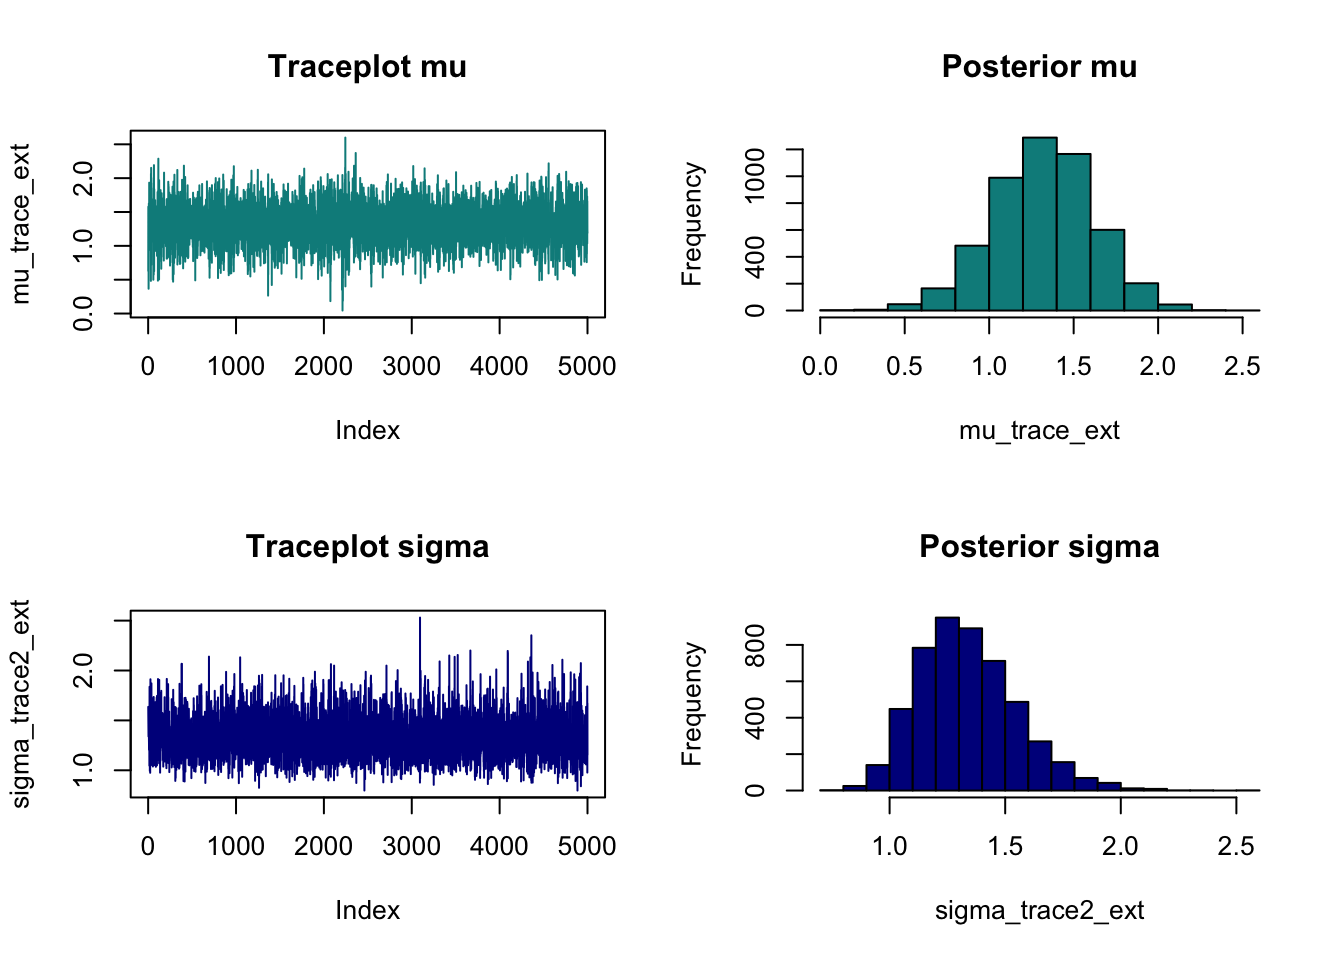
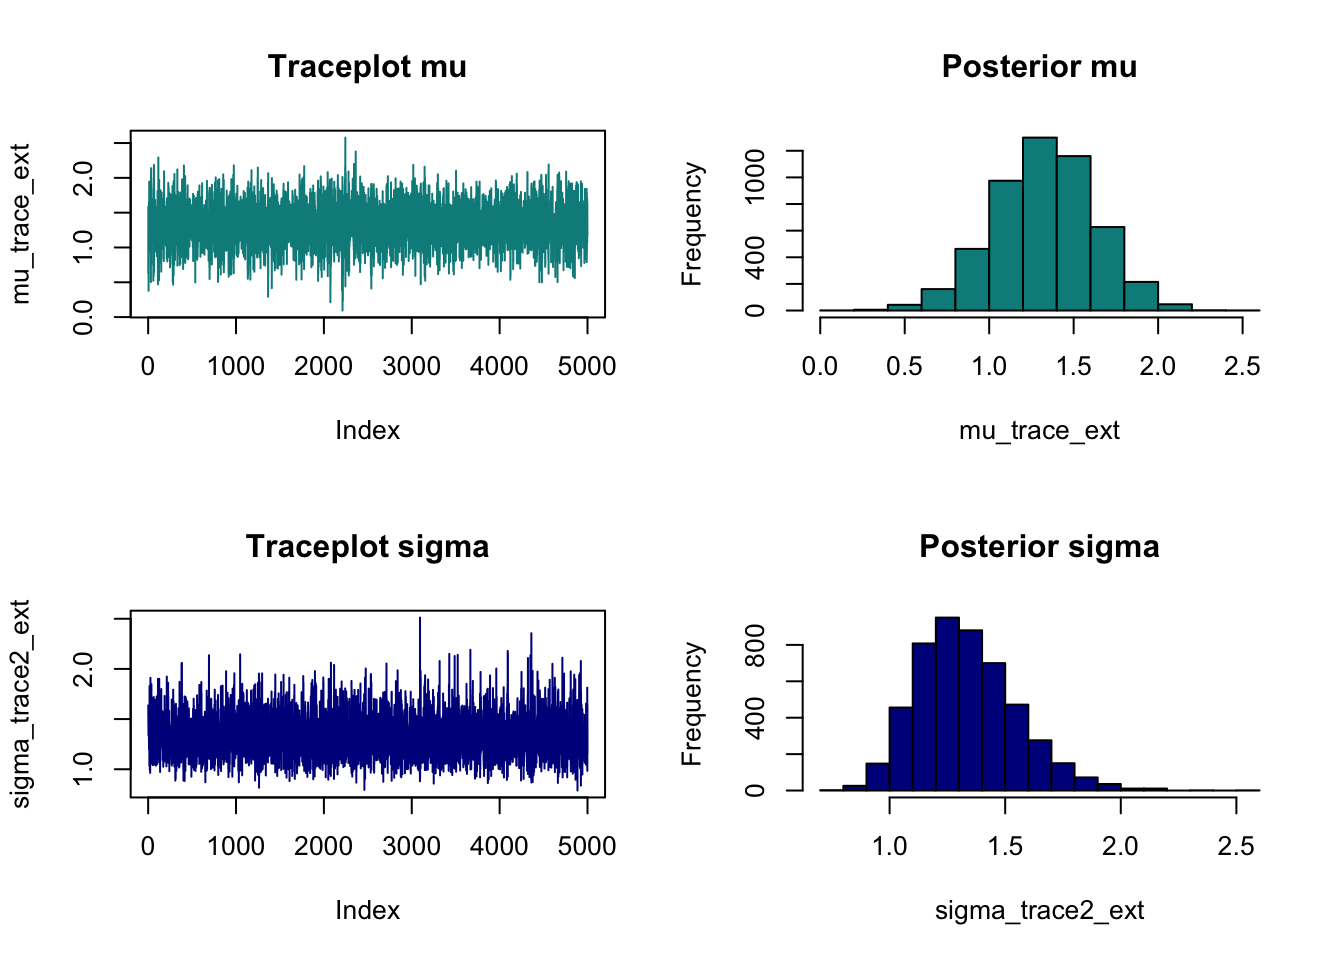
add file

diff --git a/docs/Part3.html b/docs/Part3.html
@@ -174,6 +174,10 @@ window.Quarto = {
     <a class="nav-link active" href="./Part3.html" aria-current="page"> 
 <span class="menu-text">Modèle Extension</span></a>
   </li>  
+  <li class="nav-item">
+    <a class="nav-link" href="./Part4.qmd"> 
+<span class="menu-text">Conclusion</span></a>
+  </li>  
 </ul>
             <ul class="navbar-nav navbar-nav-scroll ms-auto">
   <li class="nav-item compact">
@@ -206,7 +210,7 @@ window.Quarto = {
     <h2 id="toc-title">Sur cette page</h2>
    
   <ul>
-  <li><a href="#partie-modele-extension" id="toc-partie-modele-extension" class="nav-link active" data-scroll-target="#partie-modele-extension"><span class="header-section-number">1</span> Partie Modele Extension</a></li>
+  <li><a href="#modele-extension" id="toc-modele-extension" class="nav-link active" data-scroll-target="#modele-extension"><span class="header-section-number">1</span> Modele Extension</a></li>
   <li><a href="#récuperer-les-données-pour-la-covariable-environnementale-xij" id="toc-récuperer-les-données-pour-la-covariable-environnementale-xij" class="nav-link" data-scroll-target="#récuperer-les-données-pour-la-covariable-environnementale-xij"><span class="header-section-number">2</span> Récuperer les données pour la covariable environnementale Xij</a></li>
   <li><a href="#la-fonction-de-log-posteriori" id="toc-la-fonction-de-log-posteriori" class="nav-link" data-scroll-target="#la-fonction-de-log-posteriori"><span class="header-section-number">3</span> La fonction de log-posteriori</a></li>
   <li><a href="#les-fonctions-de-gradients" id="toc-les-fonctions-de-gradients" class="nav-link" data-scroll-target="#les-fonctions-de-gradients"><span class="header-section-number">4</span> Les fonctions de gradients</a></li>
@@ -246,8 +250,8 @@ window.Quarto = {
 </header>
 
 
-<section id="partie-modele-extension" class="level1" data-number="1">
-<h1 data-number="1"><span class="header-section-number">1</span> Partie Modele Extension</h1>
+<section id="modele-extension" class="level1" data-number="1">
+<h1 data-number="1"><span class="header-section-number">1</span> Modele Extension</h1>
 <p>On pourra considérer l’extension suivante pour expliquer une partie de la variabilité entre années :</p>
 <p><span class="math display">\[
 \begin{aligned}
@@ -730,7 +734,7 @@ Configuration : n_iter = 5000, eps = 0.0100, L = 100
   Chaîne 1 | Progression : 4500 / 5000 (90%) | Taux d'acc. : 98.9%
   Chaîne 1 | Progression : 5000 / 5000 (100%) | Taux d'acc. : 99.0%
 =&gt; Chaîne 1 terminée avec succès. Taux d'acceptation final : 98.96%
-=&gt; Chaîne 1 terminée en 1.77 minutes.</code></pre>
+=&gt; Chaîne 1 terminée en 1.79 minutes.</code></pre>
 </div>
 </div>
 </section>
@@ -784,7 +788,7 @@ Configuration : n_iter = 5000, eps = 0.0100, L = 100
 <div class="sourceCode cell-code" id="cb20"><pre class="sourceCode r code-with-copy"><code class="sourceCode r"><span id="cb20-1"><a href="#cb20-1" aria-hidden="true" tabindex="-1"></a><span class="fu">print</span>(res_beta)</span></code><button title="Copy to Clipboard" class="code-copy-button"><i class="bi"></i></button></pre></div>
 <div class="cell-output cell-output-stdout">
 <pre><code>                  Paramètre Estimate Std.Error Lower_CI_95 Upper_CI_95 Median
-2.5% Beta (Température Xij)   1.3017     0.118      1.0729      1.5337 1.3022</code></pre>
+2.5% Beta (Température Xij)   1.2993    0.1179      1.0711      1.5311 1.3001</code></pre>
 </div>
 </div>
 <div class="cell">
@@ -824,7 +828,7 @@ Configuration : n_iter = 5000, eps = 0.0100, L = 100
 </div>
 <div class="sourceCode cell-code" id="cb25"><pre class="sourceCode r code-with-copy"><code class="sourceCode r"><span id="cb25-1"><a href="#cb25-1" aria-hidden="true" tabindex="-1"></a><span class="fu">cat</span>(<span class="fu">sprintf</span>(<span class="st">"Moyen de σ^2  après inclusion de la température (Xij) : %.3f</span><span class="sc">\n</span><span class="st">"</span>, sigma_new))</span></code><button title="Copy to Clipboard" class="code-copy-button"><i class="bi"></i></button></pre></div>
 <div class="cell-output cell-output-stdout">
-<pre><code>Moyen de σ^2  après inclusion de la température (Xij) : 1.337</code></pre>
+<pre><code>Moyen de σ^2  après inclusion de la température (Xij) : 1.334</code></pre>
 </div>
 </div>
 <div class="cell">
@@ -841,7 +845,7 @@ Configuration : n_iter = 5000, eps = 0.0100, L = 100
 </div>
 <div class="sourceCode cell-code" id="cb29"><pre class="sourceCode r code-with-copy"><code class="sourceCode r"><span id="cb29-1"><a href="#cb29-1" aria-hidden="true" tabindex="-1"></a><span class="fu">cat</span>(<span class="fu">sprintf</span>(<span class="st">"Moyenne de μ après inclusion de la température (Xij) : %.3f</span><span class="sc">\n</span><span class="st">"</span>, mu_new))</span></code><button title="Copy to Clipboard" class="code-copy-button"><i class="bi"></i></button></pre></div>
 <div class="cell-output cell-output-stdout">
-<pre><code>Moyenne de μ après inclusion de la température (Xij) : 1.322</code></pre>
+<pre><code>Moyenne de μ après inclusion de la température (Xij) : 1.328</code></pre>
 </div>
 </div>
 <div class="cell">
@@ -863,26 +867,26 @@ Configuration : n_iter = 5000, eps = 0.0100, L = 100
 <span id="cb31-16"><a href="#cb31-16" aria-hidden="true" tabindex="-1"></a><span class="fu">head</span>(<span class="fu">round</span>(samples_matrix2,<span class="dv">5</span>))</span></code><button title="Copy to Clipboard" class="code-copy-button"><i class="bi"></i></button></pre></div>
 <div class="cell-output cell-output-stdout">
 <pre><code>            λ1      λ2      λ3      λ4       λ5      λ6      λ7      λ8
-[1,] 107.15464 3.02431 3.60096 4.55080 10.04277 1.90509 5.34673 0.03739
-[2,]  17.54264 5.03236 1.63742 6.29525 31.08075 2.70174 1.42118 0.71351
-[3,]  52.64754 3.82422 3.46916 4.19496  2.39720 0.26835 2.40381 0.14046
-[4,]  14.07228 5.12094 1.67007 2.53921  9.81177 0.48963 1.82414 0.89153
-[5,]  42.48738 3.78311 3.10263 3.59142  5.56038 1.70762 1.36740 0.23794
-[6,]  28.93554 4.89721 5.57640 6.90141  8.22608 1.48923 1.27125 0.47530
+[1,] 106.76586 3.02866 3.60707 4.55889 10.05442 1.90961 5.35718 0.03762
+[2,]  17.50057 5.03574 1.63860 6.28578 30.91396 2.70296 1.42166 0.71513
+[3,]  52.48114 3.82815 3.47344 4.18910  2.40547 0.26867 2.40701 0.14114
+[4,]  14.01027 5.12624 1.67163 2.53625  9.81210 0.49106 1.82634 0.89644
+[5,]  42.40164 3.78764 3.10926 3.59057  5.53142 1.71592 1.37114 0.23895
+[6,]  28.78595 4.90446 5.57398 6.88432  8.20149 1.49216 1.27487 0.47851
            λ9     λ10      λ11     λ12     λ13     λ14      λ15     λ16     λ17
-[1,] 10.79931 1.39233 70.59017 1.10913 0.55669 3.34390  6.84999 3.88828 3.54655
-[2,]  4.81728 0.51904 22.22231 3.83463 0.62383 4.45086 20.60402 2.77039 3.86996
-[3,]  5.45963 1.78113 40.17469 1.93440 2.85862 4.37654 10.67419 3.23747 3.02189
-[4,]  2.05584 1.16696 20.65915 4.02357 0.82370 6.30366 26.59008 2.35047 3.75413
-[5,]  0.71256 1.00996 42.14568 2.04861 0.42562 4.41476 11.50495 1.98477 3.66915
-[6,]  0.26306 2.85660 24.19200 2.97655 0.12116 6.29994 16.67404 2.44191 3.77974
+[1,] 10.82022 1.39560 70.36063 1.11336 0.55841 3.34990  6.87699 4.35315 3.54906
+[2,]  4.82061 0.51963 22.17857 3.84078 0.62568 4.45333 20.64627 3.07946 3.87116
+[3,]  5.46133 1.78446 40.07151 1.94038 2.86566 4.38145 10.70985 3.57096 3.02348
+[4,]  2.05711 1.16774 20.59914 4.03305 0.82485 6.30953 26.65716 2.79838 3.75626
+[5,]  0.71480 1.01294 42.00720 2.05406 0.42772 4.41995 11.53775 2.39080 3.67016
+[6,]  0.26435 2.85617 24.08746 2.98445 0.12192 6.30670 16.72458 3.08695 3.78299
          λ18     λ19     λ20       λ21     λ22     λ23       μ     σ^2    beta
-[1,] 4.26173 0.25398 6.53054 164.40927 0.48819 0.85620 0.62935 1.63550 1.97577
-[2,] 6.67727 0.34125 0.30285  57.42442 1.78742 0.30941 1.57781 1.52412 0.94591
-[3,] 4.91203 0.81718 1.59363 124.14663 1.85643 0.85834 0.63666 1.44049 1.62293
-[4,] 8.23764 0.33757 0.90523  51.03187 2.96116 0.48689 1.43386 1.33912 0.79953
-[5,] 5.54483 0.89713 1.31522  85.99239 0.63975 0.29784 0.36670 1.50886 1.45027
-[6,] 5.82539 1.01623 1.33737  77.61109 0.44408 0.24421 1.16808 1.45951 1.21429</code></pre>
+[1,] 4.27275 0.25484 6.54547 163.87190 0.48977 0.85880 0.63505 1.63604 1.97271
+[2,] 6.68459 0.34255 0.30366  57.32368 1.79392 0.31029 1.58442 1.52212 0.94410
+[3,] 4.92184 0.82086 1.60012 123.81034 1.86296 0.86135 0.64125 1.44073 1.62031
+[4,] 8.25050 0.33914 0.90923  50.90146 2.97059 0.48858 1.44149 1.33542 0.79737
+[5,] 5.55441 0.90380 1.32352  85.76830 0.64229 0.29982 0.37681 1.50558 1.44797
+[6,] 5.83609 1.02229 1.34616  77.40225 0.44654 0.24580 1.18246 1.45651 1.21187</code></pre>
 </div>
 </div>
 <div class="cell">
@@ -906,32 +910,32 @@ Configuration : n_iter = 5000, eps = 0.0100, L = 100
 <span id="cb33-18"><a href="#cb33-18" aria-hidden="true" tabindex="-1"></a><span class="fu">print</span>(results2)</span></code><button title="Copy to Clipboard" class="code-copy-button"><i class="bi"></i></button></pre></div>
 <div class="cell-output cell-output-stdout">
 <pre><code>     Parameter   Estimate   CI_lower    CI_upper
-λ1          λ1 27.3341651 14.4766172  45.1840051
-λ2          λ2  4.2758916  2.8632494   5.7462651
-λ3          λ3  3.1409143  0.6374536   7.9981700
-λ4          λ4  4.1926996  1.0469281   9.9937213
-λ5          λ5 10.7165066  3.2455650  23.2886470
-λ6          λ6  2.4161373  0.5426664   5.9354358
-λ7          λ7  2.4007869  0.3369769   6.7732943
-λ8          λ8  0.4197475  0.2278860   0.6977883
-λ9          λ9  5.4063618  0.6055669  17.2157163
-λ10        λ10  1.3057496  0.2977507   3.1074034
-λ11        λ11 31.6263372 20.4390244  45.5565325
-λ12        λ12  2.5158829  1.7899514   3.4083611
-λ13        λ13  1.4997758  0.2514753   4.0865962
-λ14        λ14  4.6389813  3.4667637   5.9417974
-λ15        λ15 14.2894668 10.3409193  19.2218065
-λ16        λ16  2.8880898  1.2030378   5.2532579
-λ17        λ17  3.9286867  2.3101056   5.9089555
-λ18        λ18  5.4331298  4.1931864   6.8521563
-λ19        λ19  2.0553648  0.3069414   5.6910083
-λ20        λ20  6.5268161  0.7210637  21.7012483
-λ21        λ21 85.2852366 62.7961281 113.6178685
-λ22        λ22  5.8773982  0.6152049  19.3967019
-λ23        λ23  0.7093872  0.1328212   1.8507997
-μ            μ  1.3238142  0.7420750   1.8920769
-σ^2        σ^2  1.3359495  0.9773802   1.8116961
-beta      beta  1.3032273  1.0741105   1.5326635</code></pre>
+λ1          λ1 27.2473259 14.4800080  45.2343091
+λ2          λ2  4.2901714  2.8494779   5.7401032
+λ3          λ3  3.1447095  0.6399998   7.9877151
+λ4          λ4  4.1886666  1.0481046  10.0077507
+λ5          λ5 10.6854100  3.2384367  23.3288050
+λ6          λ6  2.4182915  0.5432978   5.9405231
+λ7          λ7  2.4056024  0.3390898   6.7759247
+λ8          λ8  0.4214192  0.2292162   0.7002469
+λ9          λ9  5.4070260  0.6091518  17.2471325
+λ10        λ10  1.3085932  0.2985321   3.0984037
+λ11        λ11 31.5856773 20.4104643  45.6737070
+λ12        λ12  2.5230577  1.7932710   3.4107305
+λ13        λ13  1.5043541  0.2552028   4.0992531
+λ14        λ14  4.6448089  3.4724546   5.9478086
+λ15        λ15 14.3323413 10.3456620  19.2064859
+λ16        λ16  3.2648278  1.3911152   5.9293864
+λ17        λ17  3.9307415  2.3108222   5.9189493
+λ18        λ18  5.4430633  4.2025122   6.8717340
+λ19        λ19  2.0603106  0.3096782   5.6890575
+λ20        λ20  6.5244579  0.7249694  21.5925942
+λ21        λ21 85.0521537 62.8508181 113.0297791
+λ22        λ22  5.8762131  0.6164271  19.3044901
+λ23        λ23  0.7128652  0.1334369   1.8659187
+μ            μ  1.3302885  0.7504969   1.8967161
+σ^2        σ^2  1.3329406  0.9737985   1.8052433
+beta      beta  1.3007672  1.0726654   1.5288916</code></pre>
 </div>
 </div>
 </section>
